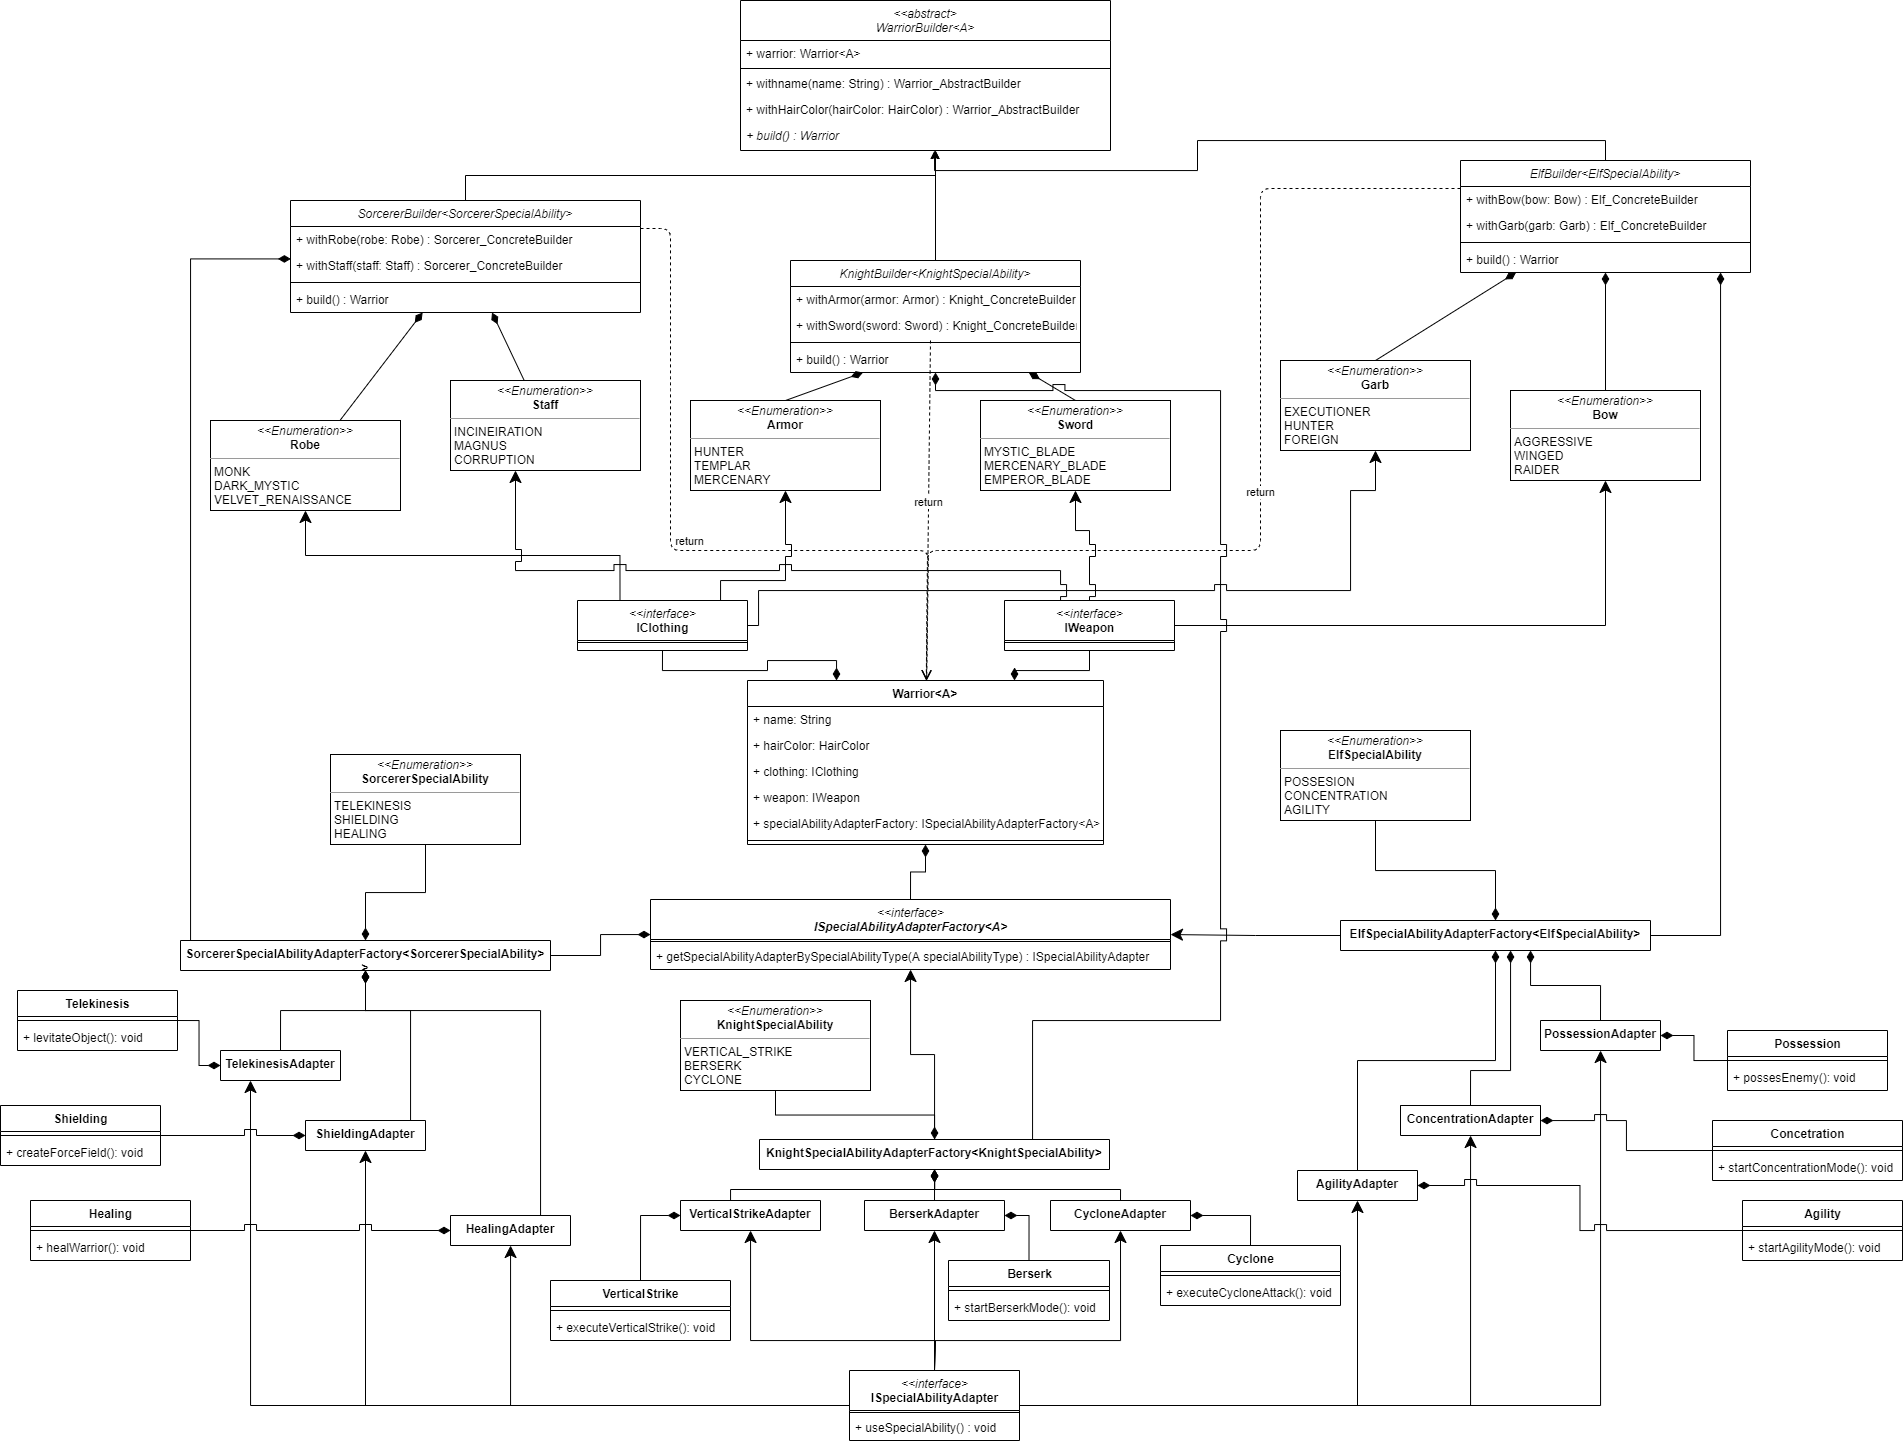
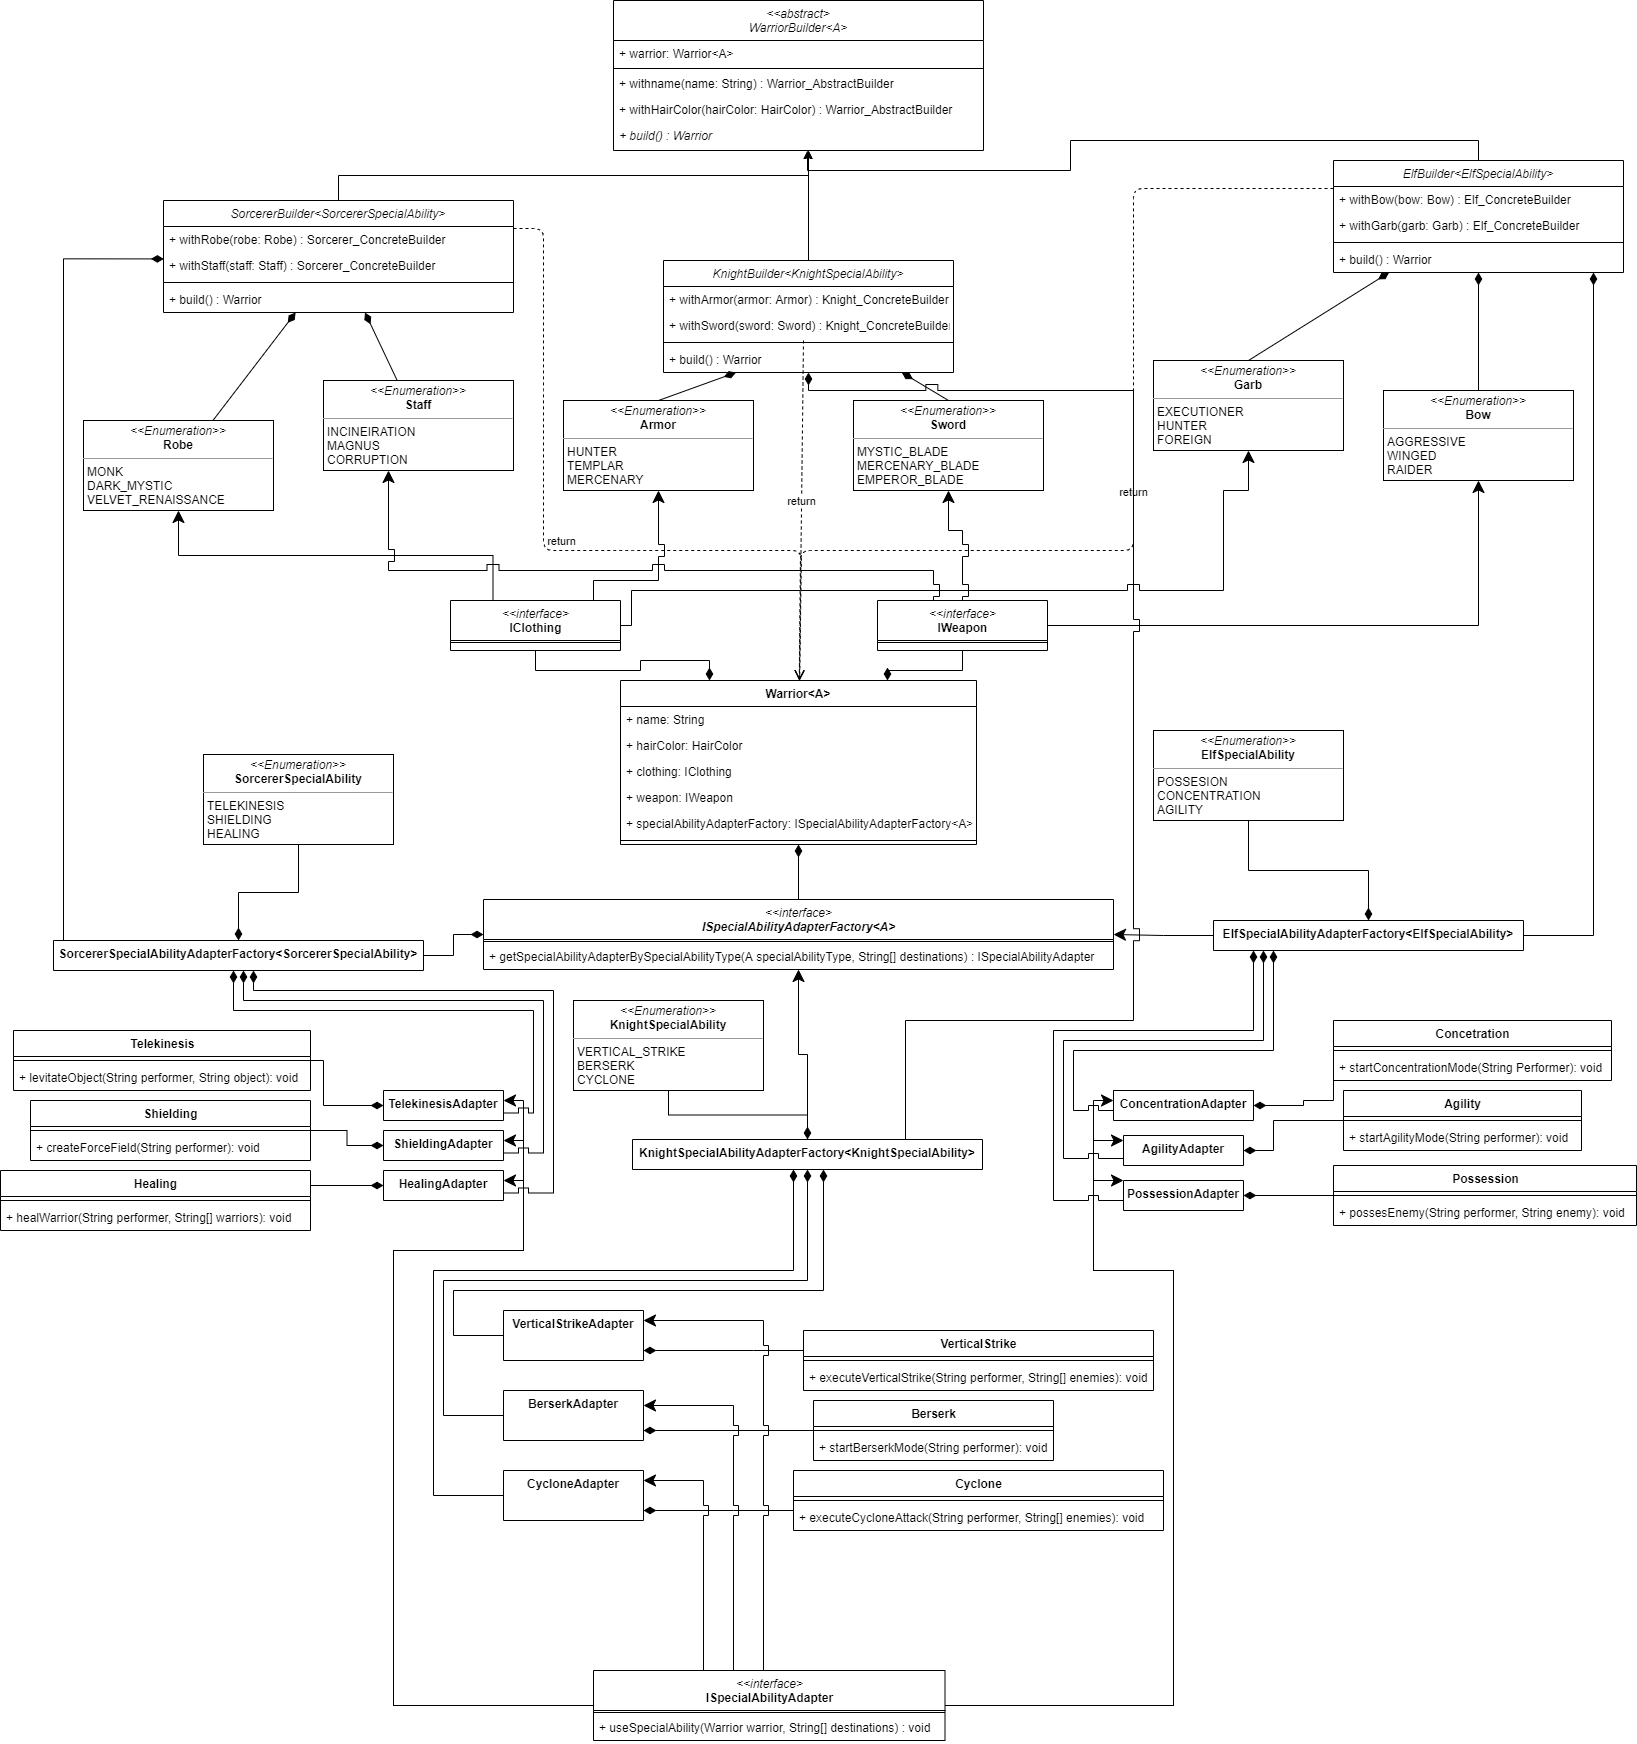
Warrior Special Ability implemented

diff --git a/Structural Patterns/Adapter/Warrior_Special_Ability/src/main/java/warriorspecialability/Main.java b/Structural Patterns/Adapter/Warrior_Special_Ability/src/main/java/warriorspecialability/Main.java
@@ -2,6 +2,10 @@ package warriorspecialability;
 
 
 import warriorspecialability.warrior.HairColor;
+import warriorspecialability.warrior.elf.Bow;
+import warriorspecialability.warrior.elf.ElfBuilder;
+import warriorspecialability.warrior.elf.Garb;
+import warriorspecialability.warrior.elf.specialabilityhandler.ElfSpecialAbility;
 import warriorspecialability.warrior.knight.Armor;
 import warriorspecialability.warrior.knight.KnightBuilder;
 import warriorspecialability.warrior.knight.Sword;
@@ -15,28 +19,41 @@ public class Main {
 
     public static void main(String[] args)
     {
-        var s = new SorcererBuilder()
+        var sorcerer = new SorcererBuilder()
                 .withName("JONAS")
                 .withHairColor(HairColor.BRUNETTE)
                 .withRobe(Robe.VELVET_RENAISSANCE)
                 .withStaff(Staff.INCINERATION).build();
 
-        System.out.println(s);
+        System.out.println(sorcerer);
 
-        s.useAbility(SorcererSpecialAbility.TELEKINESIS);
-        s.useAbility(SorcererSpecialAbility.SHIELDING);
+        sorcerer.useAbility(SorcererSpecialAbility.TELEKINESIS,"Container");
+        sorcerer.useAbility(SorcererSpecialAbility.SHIELDING,"William");
+        sorcerer.useAbility(SorcererSpecialAbility.HEALING,"William", "Jeff", "Camilla");
 
-        var k = new KnightBuilder()
+        var knight = new KnightBuilder()
                 .withName("HENRIQUE")
                 .withHairColor(HairColor.BLONDE)
                 .withArmor(Armor.MERCENARY)
                 .withSword(Sword.KATANA).build();
 
-        System.out.println(k);
+        System.out.println(knight);
 
-        k.useAbility(KnightSpecialAbility.BERSERK);
-        k.useAbility(KnightSpecialAbility.VERTICAL_STRIKE);
+        knight.useAbility(KnightSpecialAbility.BERSERK);
+        knight.useAbility(KnightSpecialAbility.CYCLONE,"Garry", "Thomas");
+        knight.useAbility(KnightSpecialAbility.VERTICAL_STRIKE, "Garry", "Thomas");
 
+        var elf = new ElfBuilder()
+                .withName("Stephan")
+                .withHairColor(HairColor.REDHEAD)
+                .withGarb(Garb.HUNTER)
+                .withBow(Bow.RAIDER).build();
+
+        System.out.println(elf);
+
+        elf.useAbility(ElfSpecialAbility.AGILITY);
+        elf.useAbility(ElfSpecialAbility.CONCENTRATION,"Garry", "Thomas");
+        elf.useAbility(ElfSpecialAbility.POSSESSION, "Rick");
 
     }
 

diff --git a/Structural Patterns/Adapter/Warrior_Special_Ability/src/main/java/warriorspecialability/warrior/Warrior.java b/Structural Patterns/Adapter/Warrior_Special_Ability/src/main/java/warriorspecialability/warrior/Warrior.java
@@ -16,6 +16,10 @@ public class Warrior<A> {
 
     private ISpecialAbilityAdapterFactory<A> specialAbilityAdapterFactory;
 
+    public String getName() {
+        return name;
+    }
+
     public void setName(String name) {
         this.name = name;
     }
@@ -44,17 +48,17 @@ public class Warrior<A> {
         this.specialAbilityAdapterFactory = specialAbilityAdapterFactory;
     }
 
-    public void useAbility(A specialAbility){
+    public void useAbility(A specialAbility, String...destinations){
         ISpecialAbilityAdapter specialAbilityAdapter = specialAbilityAdapterFactory
                 .getSpecialAbilityAdapterBySpecialAbilityType(specialAbility);
 
-        specialAbilityAdapter.useSpecialAbility();
+        specialAbilityAdapter.useSpecialAbility(this, destinations);
     }
 
     @Override
     public String toString()
     {
-        return "You have spawned a [" + hairColor+(warriorClass != null ? " "+ warriorClass : "")+ "] warrior" +
+        return "\nYou have spawned a [" + hairColor+(warriorClass != null ? " "+ warriorClass : "")+ "] warrior" +
                 " called ["+name+ "]"+
                 " clothing a ["+ clothing + "] " + clothing.getClass().getSimpleName() +
                 " and holding a ["+ weapon + "] "+ weapon.getClass().getSimpleName();

diff --git a/Structural Patterns/Adapter/Warrior_Special_Ability/src/main/java/warriorspecialability/specialability/Cyclone.java b/Structural Patterns/Adapter/Warrior_Special_Ability/src/main/java/warriorspecialability/specialability/Cyclone.java
@@ -1,8 +1,32 @@
 package warriorspecialability.specialability;
 
+import java.util.Arrays;
+
 public class Cyclone {
 
-    public void executeCycloneAttack(){
-        System.out.println("You attacked the enemy with a Cyclone Attack");
+    public void executeCycloneAttack(String source, String...destinations){
+
+        var sb = new StringBuilder();
+        sb.append(source).append(" attacked ");
+
+        if(destinations.length>1){
+            sb.append("enemies ");
+            Arrays.stream(destinations).forEach(enemy -> {
+                if(destinations[0].equals(enemy))
+                    sb.append(enemy);
+                else if(destinations[destinations.length-1].equals(enemy))
+                    sb.append(" and ").append(enemy);
+                else
+                    sb.append(", ").append(enemy);
+            });
+
+        }
+        else {
+            sb.append("enemy " + destinations[0]);
+        }
+
+        sb.append(" with a Cyclone Attack");
+
+        System.out.println(sb.toString());
     }
 }

diff --git a/Structural Patterns/Adapter/Warrior_Special_Ability/src/main/java/warriorspecialability/specialability/adapter/VerticalStrikeAdapter.java b/Structural Patterns/Adapter/Warrior_Special_Ability/src/main/java/warriorspecialability/specialability/adapter/VerticalStrikeAdapter.java
@@ -2,13 +2,23 @@ package warriorspecialability.specialability.adapter;
 
 import warriorspecialability.common.ISpecialAbilityAdapter;
 import warriorspecialability.specialability.VerticalStrike;
+import warriorspecialability.warrior.Warrior;
 
 public class VerticalStrikeAdapter implements ISpecialAbilityAdapter {
 
     private final VerticalStrike verticalStrike = new VerticalStrike();
 
+    static final Integer MINIMUM_NUMBER_OF_DESTINATIONS=1;
+
     @Override
-    public void useSpecialAbility() {
-        verticalStrike.executeVerticalStrike();
+    public void useSpecialAbility(Warrior warrior, String...destinations) {
+
+        if(destinations.length < MINIMUM_NUMBER_OF_DESTINATIONS){
+            System.out.println(warrior.getName()+" can't execute the Vertical Strike attack because " +
+                    "performing this ability must have at least one enemy chosen to execute");
+            return;
+        }
+
+        verticalStrike.executeVerticalStrike(warrior.getName(), destinations);
     }
 }

diff --git a/Structural Patterns/Adapter/Warrior_Special_Ability/src/main/java/warriorspecialability/specialability/VerticalStrike.java b/Structural Patterns/Adapter/Warrior_Special_Ability/src/main/java/warriorspecialability/specialability/VerticalStrike.java
@@ -1,7 +1,32 @@
 package warriorspecialability.specialability;
 
+import java.util.Arrays;
+
 public class VerticalStrike {
-    public void executeVerticalStrike(){
-        System.out.println("You vertically stroke an enemy");
+
+    public void executeVerticalStrike(String performer, String...enemies){
+
+        var sb = new StringBuilder();
+        sb.append(performer).append(" attacked ");
+
+        if(enemies.length>1){
+            sb.append("enemies ");
+            Arrays.stream(enemies).forEach(enemy -> {
+                if(enemies[0].equals(enemy))
+                    sb.append(enemy);
+                else if(enemies[enemies.length-1].equals(enemy))
+                    sb.append(" and ").append(enemy);
+                else
+                    sb.append(", ").append(enemy);
+            });
+
+        }
+        else {
+            sb.append("enemy " + enemies[0]);
+        }
+
+        sb.append(" with a Vertical Strike Attack");
+
+        System.out.println(sb.toString());
     }
 }

diff --git a/Structural Patterns/Adapter/Warrior_Special_Ability/src/main/java/warriorspecialability/specialability/adapter/TelekinesisAdapter.java b/Structural Patterns/Adapter/Warrior_Special_Ability/src/main/java/warriorspecialability/specialability/adapter/TelekinesisAdapter.java
@@ -2,13 +2,23 @@ package warriorspecialability.specialability.adapter;
 
 import warriorspecialability.common.ISpecialAbilityAdapter;
 import warriorspecialability.specialability.Telekinesis;
+import warriorspecialability.warrior.Warrior;
 
 public class TelekinesisAdapter implements ISpecialAbilityAdapter {
 
     private final Telekinesis telekinesis = new Telekinesis();
 
+    static final Integer FIXED_NUMBER_OF_DESTINATIONS = 1;
+
     @Override
-    public void useSpecialAbility() {
-        telekinesis.levitateObject();
+    public void useSpecialAbility(Warrior warrior, String...destinations) {
+
+        if(destinations.length != FIXED_NUMBER_OF_DESTINATIONS){
+            System.out.println(warrior.getName()+" can't execute the Telekinesis special ability because " +
+                    "performing this ability must have only one object chosen to execute");
+            return;
+        }
+
+        telekinesis.levitateObject(warrior.getName(), destinations[0]);
     }
 }

diff --git a/Structural Patterns/Adapter/Warrior_Special_Ability/src/main/java/warriorspecialability/specialability/adapter/PossessionAdapter.java b/Structural Patterns/Adapter/Warrior_Special_Ability/src/main/java/warriorspecialability/specialability/adapter/PossessionAdapter.java
@@ -2,13 +2,23 @@ package warriorspecialability.specialability.adapter;
 
 import warriorspecialability.common.ISpecialAbilityAdapter;
 import warriorspecialability.specialability.Possession;
+import warriorspecialability.warrior.Warrior;
 
 public class PossessionAdapter implements ISpecialAbilityAdapter {
 
     private final Possession possession = new Possession();
 
+    static final Integer FIXED_NUMBER_OF_DESTINATIONS = 1;
+
     @Override
-    public void useSpecialAbility() {
-        possession.possesEnemy();
+    public void useSpecialAbility(Warrior warrior, String...destinations) {
+
+        if(destinations.length != FIXED_NUMBER_OF_DESTINATIONS){
+            System.out.println(warrior.getName()+" can't execute the Possession special ability because " +
+                    "performing this ability must have only one warrior chosen to execute");
+            return;
+        }
+
+        possession.possesEnemy(warrior.getName(), destinations[0]);
     }
 }

diff --git a/Structural Patterns/Adapter/Warrior_Special_Ability/src/main/java/warriorspecialability/specialability/adapter/CycloneAdapter.java b/Structural Patterns/Adapter/Warrior_Special_Ability/src/main/java/warriorspecialability/specialability/adapter/CycloneAdapter.java
@@ -2,13 +2,23 @@ package warriorspecialability.specialability.adapter;
 
 import warriorspecialability.common.ISpecialAbilityAdapter;
 import warriorspecialability.specialability.Cyclone;
+import warriorspecialability.warrior.Warrior;
 
 public class CycloneAdapter implements ISpecialAbilityAdapter {
 
     private final Cyclone cyclone = new Cyclone();
 
+    static final Integer MINIMUM_NUMBER_OF_DESTINATIONS = 1;
+
     @Override
-    public void useSpecialAbility() {
-        cyclone.executeCycloneAttack();
+    public void useSpecialAbility(Warrior warrior, String...destinations) {
+
+        if(destinations.length < MINIMUM_NUMBER_OF_DESTINATIONS){
+            System.out.println(warrior.getName()+" can't execute the Cyclone special ability because " +
+                    "performing this ability must have at least one enemy chosen to execute");
+            return;
+        }
+
+        cyclone.executeCycloneAttack(warrior.getName(), destinations);
     }
 }

diff --git a/Structural Patterns/Adapter/Warrior_Special_Ability/src/main/java/warriorspecialability/specialability/adapter/HealingAdapter.java b/Structural Patterns/Adapter/Warrior_Special_Ability/src/main/java/warriorspecialability/specialability/adapter/HealingAdapter.java
@@ -2,13 +2,22 @@ package warriorspecialability.specialability.adapter;
 
 import warriorspecialability.common.ISpecialAbilityAdapter;
 import warriorspecialability.specialability.Healing;
+import warriorspecialability.warrior.Warrior;
 
 public class HealingAdapter implements ISpecialAbilityAdapter {
 
     private final Healing healing = new Healing();
 
+    static final Integer MINIMUM_NUMBER_OF_DESTINATIONS=1;
+
     @Override
-    public void useSpecialAbility() {
-        healing.healWarrior();
+    public void useSpecialAbility(Warrior warrior, String...destinations) {
+        if(destinations.length < MINIMUM_NUMBER_OF_DESTINATIONS){
+            System.out.println(warrior.getName()+ " can't execute the Healing special ability because " +
+                    "performing this ability must have at least one warrior chosen to execute");
+            return;
+        }
+
+        healing.healWarrior(warrior.getName(), destinations);
     }
 }

diff --git a/Structural Patterns/Adapter/Warrior_Special_Ability/src/main/java/warriorspecialability/specialability/Healing.java b/Structural Patterns/Adapter/Warrior_Special_Ability/src/main/java/warriorspecialability/specialability/Healing.java
@@ -1,8 +1,29 @@
 package warriorspecialability.specialability;
 
+import java.util.Arrays;
+
 public class Healing {
 
-    public void healWarrior(){
-        System.out.println("You have healed an warrior");
+    public void healWarrior(String performer, String...warriors){
+        var sb = new StringBuilder();
+        sb.append(performer).append(" healed ");
+
+        if(warriors.length>1){
+            sb.append("warriors ");
+            Arrays.stream(warriors).forEach(enemy -> {
+                if(warriors[0].equals(enemy))
+                    sb.append(enemy);
+                else if(warriors[warriors.length-1].equals(enemy))
+                    sb.append(" and ").append(enemy);
+                else
+                    sb.append(", ").append(enemy);
+            });
+
+        }
+        else {
+            sb.append("warrior " + warriors[0]);
+        }
+
+        System.out.println(sb.toString());
     }
 }

diff --git a/Structural Patterns/Adapter/Warrior_Special_Ability/src/main/java/warriorspecialability/specialability/adapter/ConcentrationAdapter.java b/Structural Patterns/Adapter/Warrior_Special_Ability/src/main/java/warriorspecialability/specialability/adapter/ConcentrationAdapter.java
@@ -2,13 +2,14 @@ package warriorspecialability.specialability.adapter;
 
 import warriorspecialability.common.ISpecialAbilityAdapter;
 import warriorspecialability.specialability.Concentration;
+import warriorspecialability.warrior.Warrior;
 
 public class ConcentrationAdapter implements ISpecialAbilityAdapter {
 
     private final Concentration concentration = new Concentration();
 
     @Override
-    public void useSpecialAbility() {
-        concentration.startConcentrationMode();
+    public void useSpecialAbility(Warrior warrior, String...destinations) {
+        concentration.startConcentrationMode(warrior.getName());
     }
 }

diff --git a/Structural Patterns/Adapter/Warrior_Special_Ability/src/main/java/warriorspecialability/specialability/adapter/ShieldingAdapter.java b/Structural Patterns/Adapter/Warrior_Special_Ability/src/main/java/warriorspecialability/specialability/adapter/ShieldingAdapter.java
@@ -2,14 +2,15 @@ package warriorspecialability.specialability.adapter;
 
 import warriorspecialability.common.ISpecialAbilityAdapter;
 import warriorspecialability.specialability.Shielding;
+import warriorspecialability.warrior.Warrior;
 
 public class ShieldingAdapter implements ISpecialAbilityAdapter {
 
     private final Shielding shielding = new Shielding();
 
     @Override
-    public void useSpecialAbility() {
-        shielding.createForceField();
+    public void useSpecialAbility(Warrior warrior, String...destinations) {
+        shielding.createForceField(warrior.getName());
     }
 
 
